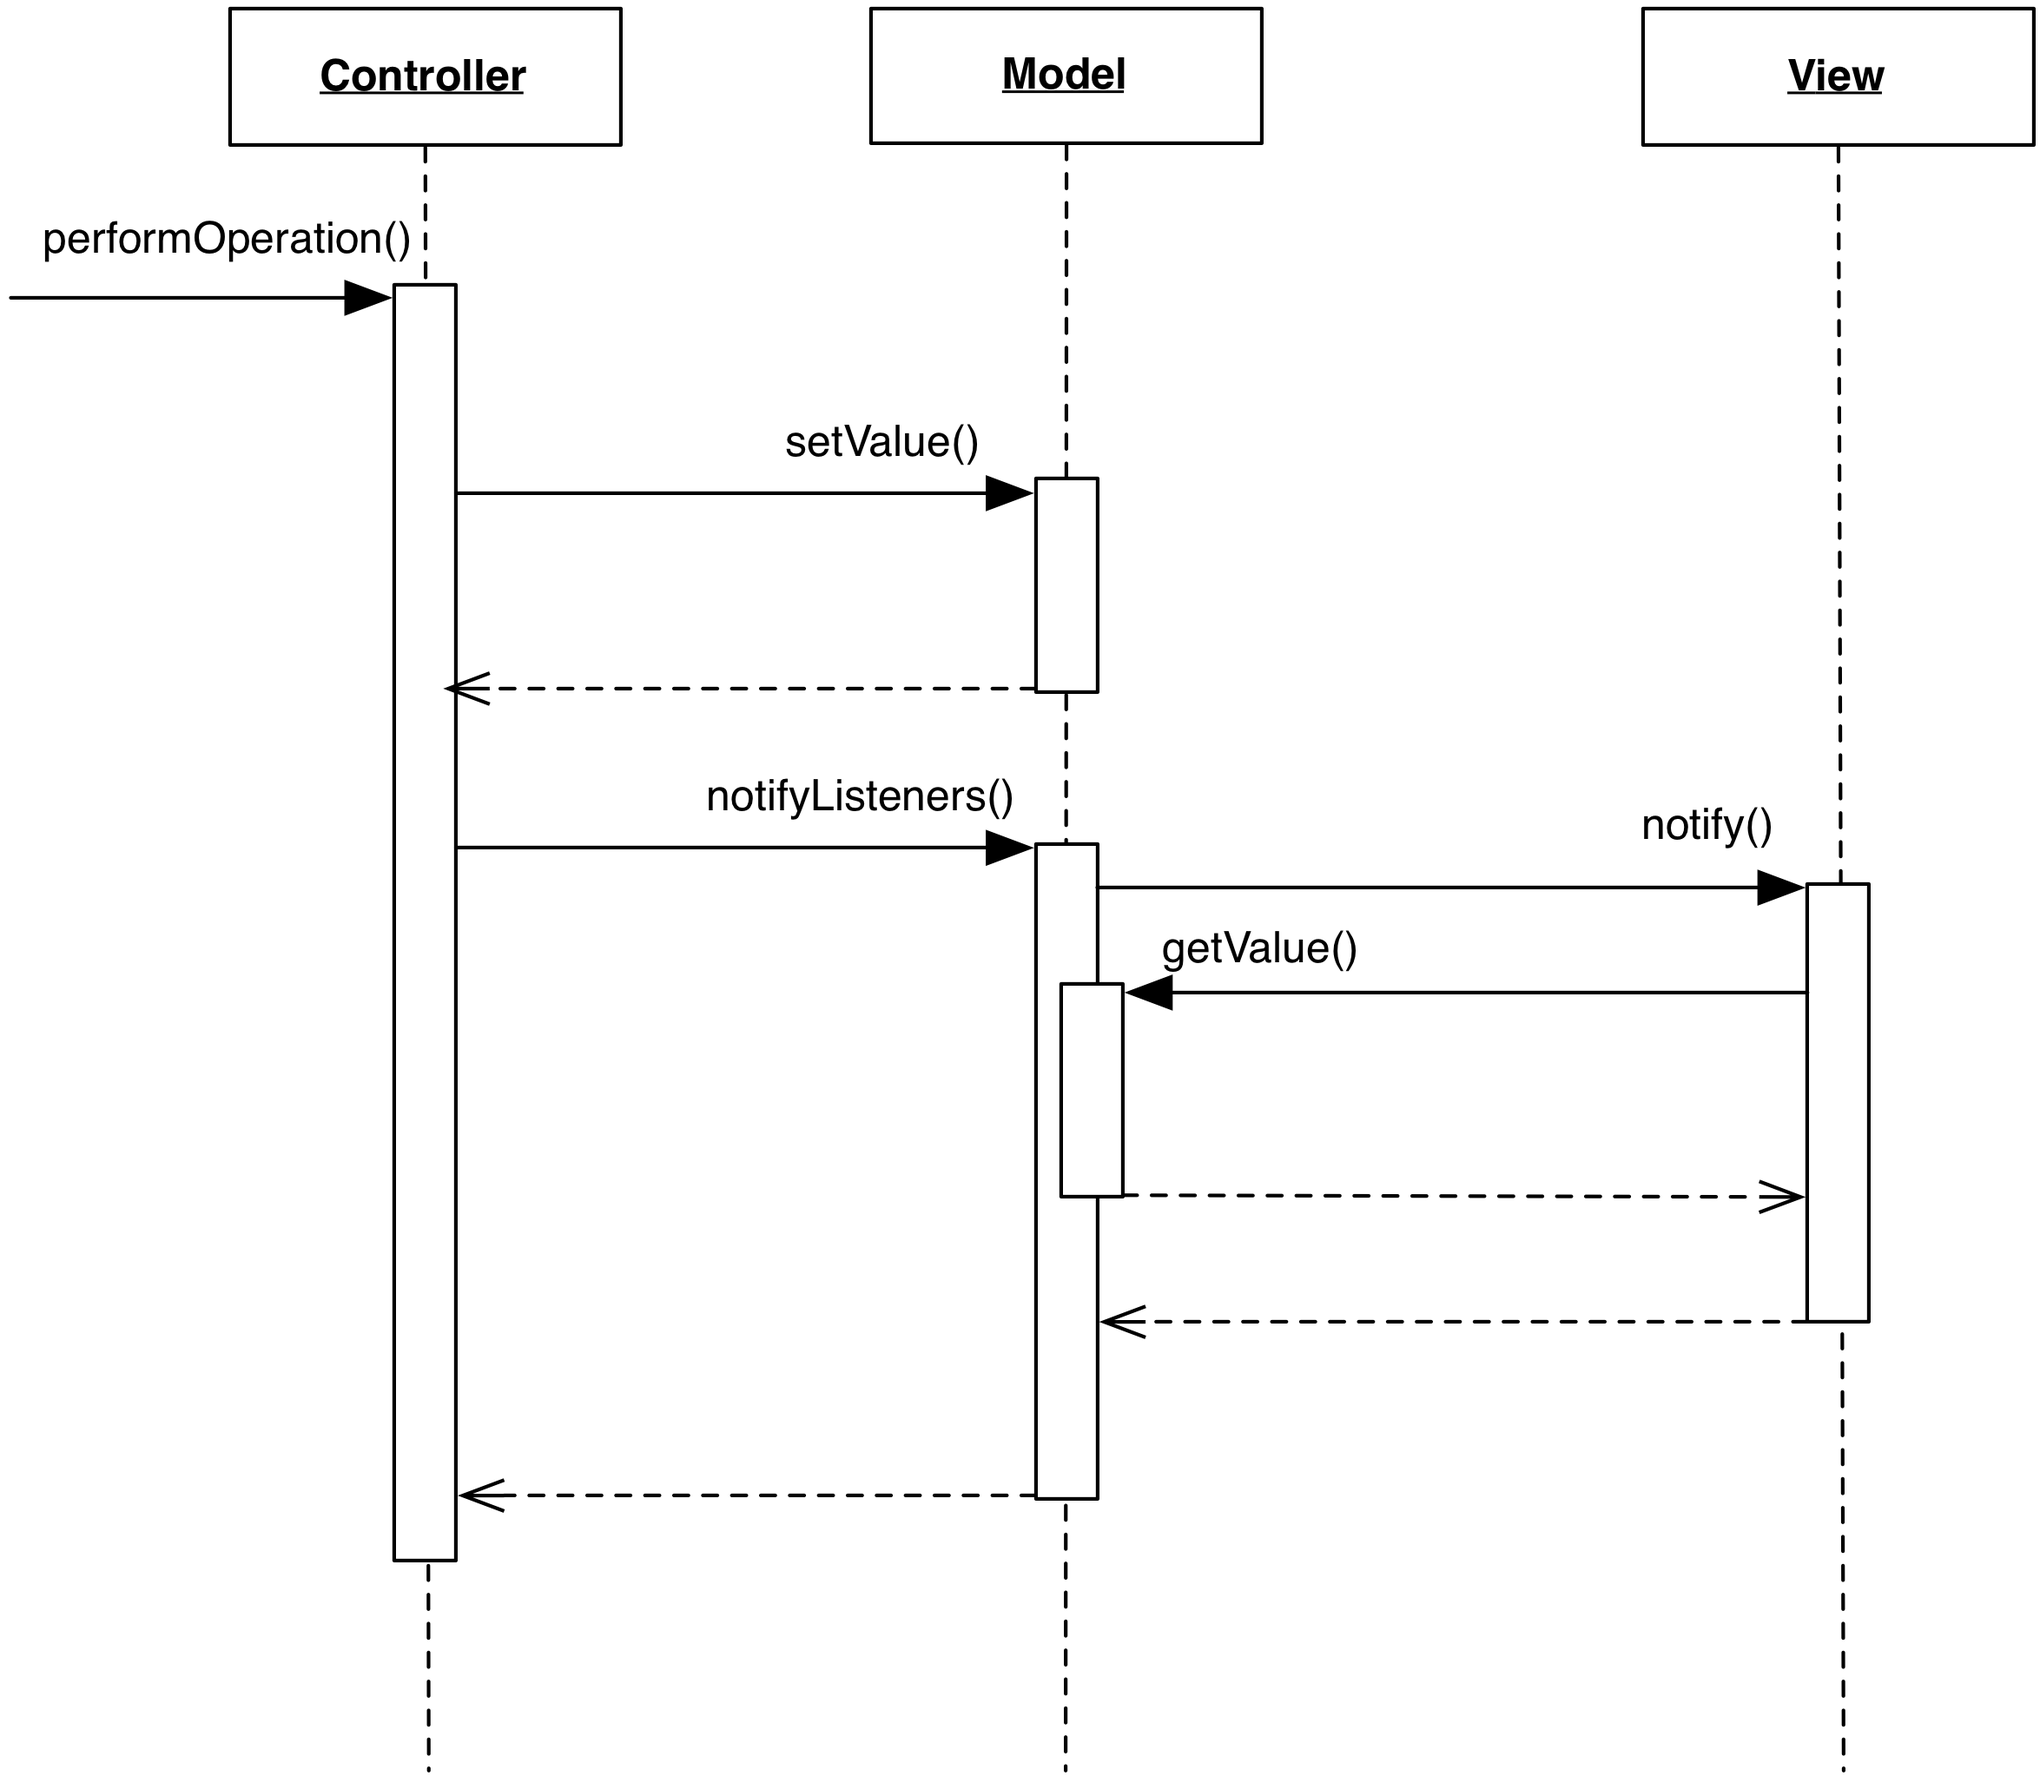
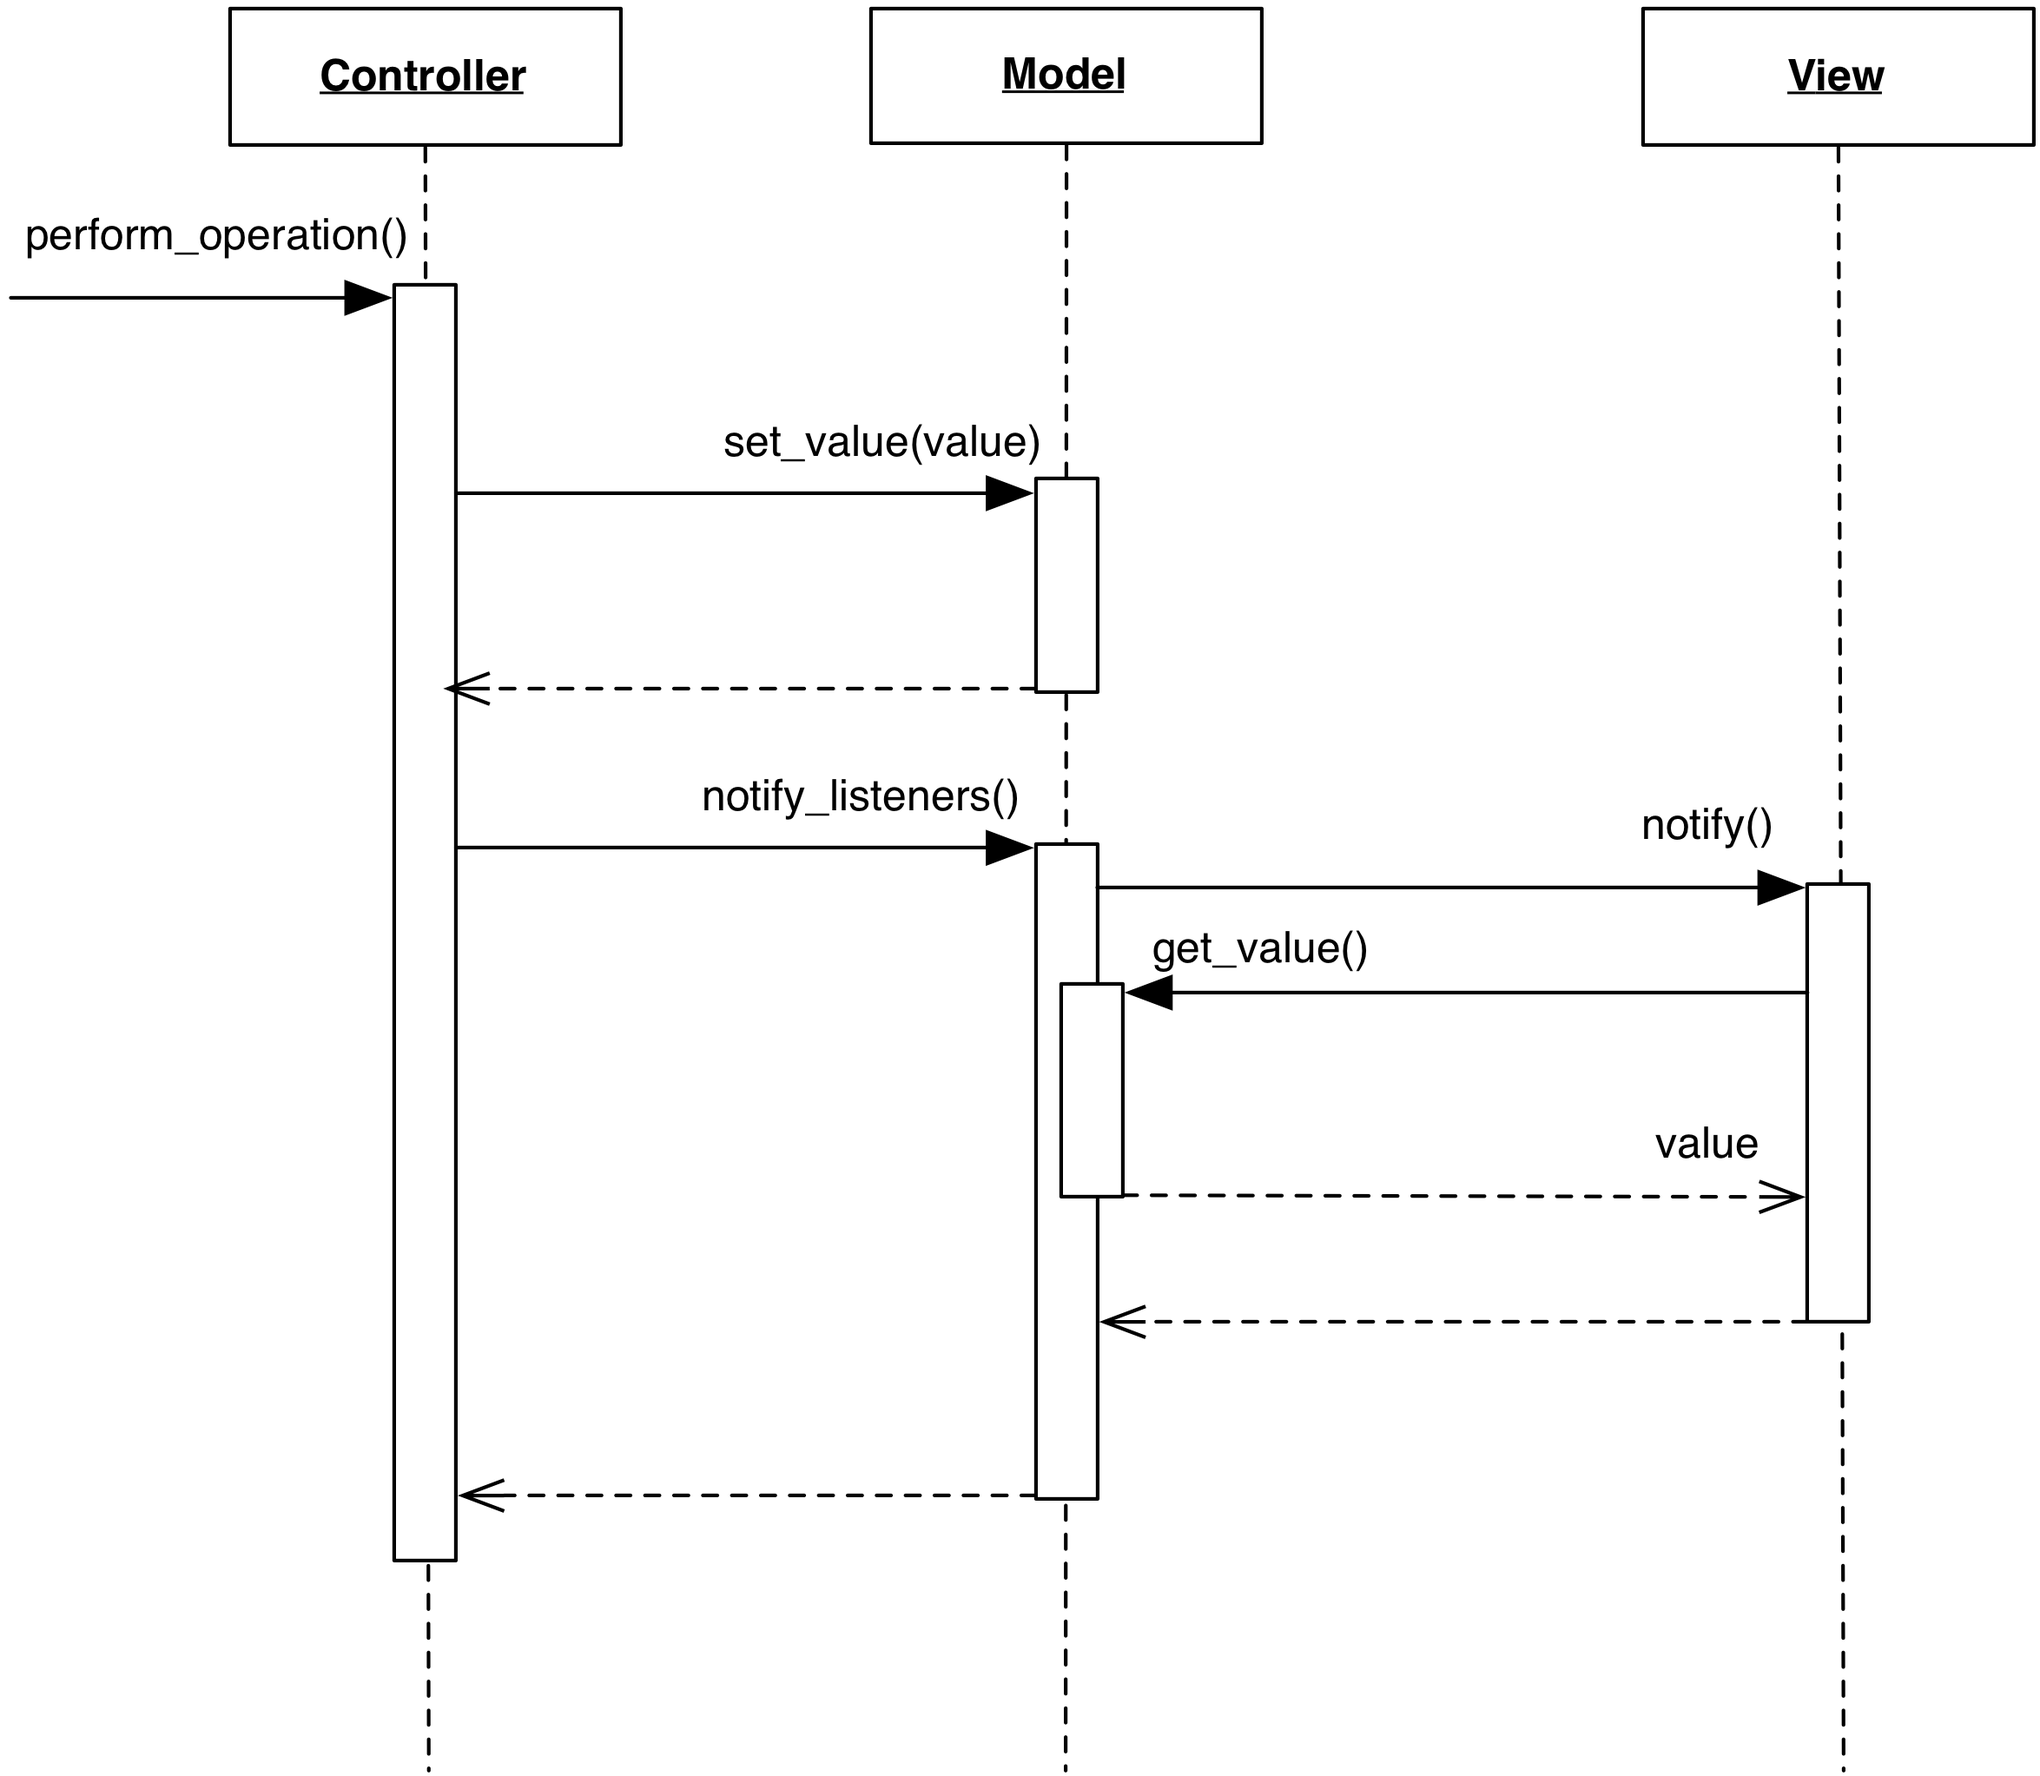
Cleaned lazy model

diff --git a/02_mvc_variations/variations_on_the_notification_strategy/lazy_model.md b/02_mvc_variations/variations_on_the_notification_strategy/lazy_model.md
@@ -1,0 +1,43 @@
+<!--- Done -->
+# Lazy Model
+
+### Motivation
+
+A Lazy Model is an intermediate solution between Active and Passive Model 
+that retains centrality of the notification bookkeeping, but delegates 
+notification triggering. It is a good strategy to retain full control on the
+notification flow as in the Passive model, but at the same time keep 
+the listeners' list centralized so that they can all be notified of the 
+changes, no matter which Controller performs them. 
+
+With the resulting design, the Controller is free to perform multiple 
+changes on the Model object, and trigger the notification when done.
+
+### Design
+
+Like an Active solution, listeners register on the Model and await for
+notification; Differently from it, methods that modify the Model do not call
+``Model.notify_listeners()``. Instead, the Controller issues the call.
+
+<p align="center">
+    <img src="images/lazy_model/lazy_model.png" />
+</p>
+
+### Practical example 
+
+A trivial example of Controller code using a Lazy Model notification strategy
+would behave as follows
+
+```python
+class Controller():
+    def perform_operation(self):
+        model = self.model
+        
+        # None of these setters trigger notification.
+        model.set_name("Enrico")
+        model.set_surname("Fermi")
+        model.set_nationality("Italian")
+
+        # Views are notified of the changes here.
+        model.notify_listeners()
+``` 

diff --git a/02_mvc_variations/variations_on_the_notification_strategy/index.md b/02_mvc_variations/variations_on_the_notification_strategy/index.md
@@ -3,7 +3,7 @@
    * [Qualified Notification Model](02_mvc_variations/05_qualified_notification_model.md): Deliver notification with enhanced semantics.
    * [Qualified Notification Model with Subscribing](02_mvc_variations/50_qualified_notification_model_with_subscribing.md): View subscribes to specific events and gets notified only when they occur.
    * [Passive Model](02_mvc_variations/07_passive_model.md): A Model without notification features.
-   * [Lazy Model](02_mvc_variations/08_lazy_model.md): A Model delivering its notifications only on request.
+   * [Lazy Model](02_mvc_variations/lazy_model.md): A Model delivering its notifications on explicit request.
    * [Accumulator](02_mvc_variations/35_accumulator.md): Listens to submodels and squashes multiple notifications into a single one.
    * [Delayed Model](02_mvc_variations/40_delayed_model.md): Neutralizes fast notifications through a timeout.
    * [Throttling](02_mvc_variations/41_throttling.md): Neutralizes fast notifications, but issue a change immediately.

diff --git a/SUMMARY.md b/SUMMARY.md
@@ -31,7 +31,7 @@
        * [Qualified Notification Model](02_mvc_variations/variations_on_the_notification_strategy/05_qualified_notification_model.md)
        * [Qualified Notification Model with Subscribing](02_mvc_variations/variations_on_the_notification_strategy/50_qualified_notification_model_with_subscribing.md)
        * [Passive Model](02_mvc_variations/variations_on_the_notification_strategy/07_passive_model.md)
-       * [Lazy Model](02_mvc_variations/variations_on_the_notification_strategy/08_lazy_model.md)
+       * [Lazy Model](02_mvc_variations/variations_on_the_notification_strategy/lazy_model.md)
        * [Accumulator](02_mvc_variations/variations_on_the_notification_strategy/35_accumulator.md)
        * [Delayed Model](02_mvc_variations/variations_on_the_notification_strategy/40_delayed_model.md)
        * [Throttling](02_mvc_variations/variations_on_the_notification_strategy/41_throttling.md)
